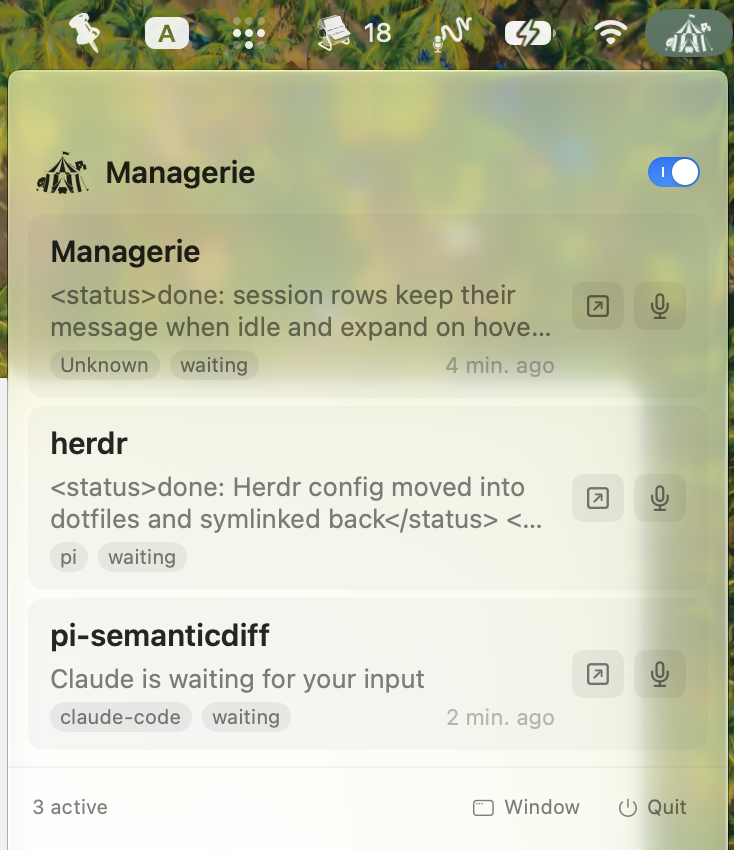
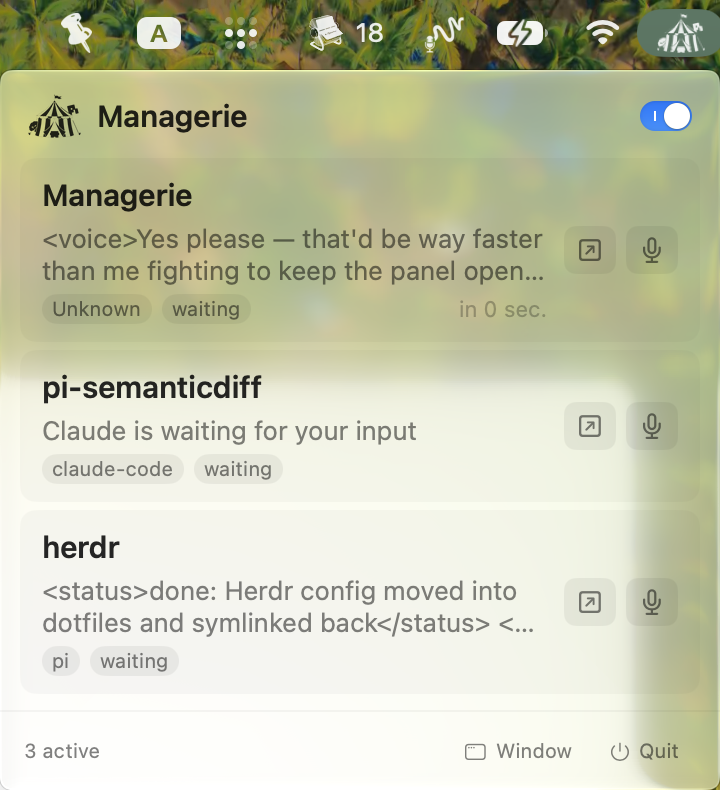
Website: full dropdown shot, no em dashes, drop the chime copy
The menubar dropdown asset is cropped to the panel's exact columns with its
bottom edge intact, so the page frame's corner radius clips it into a curve
instead of a hard cut. Every em dash on the page is gone, along with the
chime-picker line.

diff --git a/website/index.html b/website/index.html
@@ -5,10 +5,10 @@
 <meta name="viewport" content="width=device-width, initial-scale=1">
 <meta name="color-scheme" content="light only">
 <meta name="darkreader-lock">
-<title>Managerie — a menagerie of coding agents in your menubar</title>
+<title>Managerie: a menagerie of coding agents in your menubar</title>
 <meta name="description" content="Managerie watches your pi, claude-code, and codex sessions. It chimes when an agent needs you, jumps you to the right terminal, and lets you reply by text or voice.">
 <meta property="og:title" content="Managerie">
-<meta property="og:description" content="A menagerie of coding agents in your menubar — notifications, live status, and replies for pi, claude-code, and codex.">
+<meta property="og:description" content="A menagerie of coding agents in your menubar. Notifications, live status, and replies for pi, claude-code, and codex.">
 <meta property="og:image" content="https://managerie.exe.xyz/assets/icon.png">
 <link rel="icon" type="image/png" href="/assets/icon.png">
 <link rel="preconnect" href="https://fonts.googleapis.com">
@@ -217,7 +217,7 @@
 </header>
 
 <section class="hero wrap">
-  <span class="icon-frame"><img class="icon" src="/assets/icon.png" alt="Managerie app icon — a circus tent"></span>
+  <span class="icon-frame"><img class="icon" src="/assets/icon.png" alt="Managerie app icon, a circus tent"></span>
   <h1>Manage a <span class="rust">menagerie</span> of coding&nbsp;agents.</h1>
   <p class="sub">If you are running a handful of agents in terminal, this is for you.
   Managerie watches over all of them: it chimes when one finishes and needs you,
@@ -240,13 +240,13 @@
 <section class="shot-section wrap">
   <div class="shot-pair">
     <div class="shot-frame shot-window">
-      <img src="/assets/window.png?v=4" alt="Managerie main window — sidebar navigation with a list of live agent sessions, each with jump and voice-reply buttons">
+      <img src="/assets/window.png?v=5" alt="Managerie main window with a list of live agent sessions, each with jump and voice-reply buttons">
     </div>
     <div class="shot-frame shot-drop">
-      <img src="/assets/dropdown.png?v=4" alt="Managerie menubar dropdown — three agent sessions with their latest message, jump and mic buttons">
+      <img src="/assets/dropdown.png?v=5" alt="Managerie menubar dropdown showing three agent sessions with their latest message, jump and mic buttons">
     </div>
   </div>
-  <p class="shot-caption">Every live session, one window — or a glance from the menubar. Jump to its terminal, or hold the mic and dictate a reply.</p>
+  <p class="shot-caption">Every live session in one window, or a glance from the menubar. Jump to its terminal, or hold the mic and dictate a reply.</p>
 </section>
 
 <section class="section alt" id="how">
@@ -256,17 +256,17 @@
       <div class="card">
         <span class="emoji">🔔</span>
         <h3>Chimes only when it matters</h3>
-        <p>The ding means <em>a session finished and is waiting for you</em>. Mid-turn chatter, tool runs, and status flips stay silent. Pick your chime — Pop, Glass, Hero, or fourteen others.</p>
+        <p>The ding means <em>a session finished and is waiting for you</em>. Mid-turn chatter, tool runs, and status flips stay silent.</p>
       </div>
       <div class="card">
         <span class="emoji">↗</span>
         <h3>Jump to the exact terminal</h3>
-        <p>Click a notification or a session row and Managerie focuses the right window, tab, and tmux pane — Ghostty, iTerm2, tmux, zellij, it finds the one.</p>
+        <p>Click a notification or a session row and Managerie focuses the right window, tab, and tmux pane. Ghostty, iTerm2, tmux, zellij: it finds the one.</p>
       </div>
       <div class="card">
         <span class="emoji">🎙</span>
         <h3>Reply from anywhere</h3>
-        <p>Type a reply into any session from the dropdown, or hold the mic and speak — Apple's on-device recognizer transcribes it and injects it into the agent's terminal. No API keys, nothing leaves your Mac.</p>
+        <p>Type a reply into any session from the dropdown, or hold the mic and speak. Apple's on-device recognizer transcribes it and injects it into the agent's terminal. No API keys, nothing leaves your Mac.</p>
       </div>
     </div>
   </div>
@@ -280,7 +280,7 @@
         <div class="step-num"></div>
         <div>
           <h3>Install with Homebrew</h3>
-          <p><code>brew install --cask swairshah/tap/managerie</code> — signed &amp; notarized. Launch it and allow notifications when asked.</p>
+          <p><code>brew install --cask swairshah/tap/managerie</code>, signed &amp; notarized. Launch it and allow notifications when asked.</p>
         </div>
       </div>
       <div class="step">
@@ -288,14 +288,14 @@
         <div>
           <h3>Connect your agents</h3>
           <p>Open the window → <strong>Integrations</strong> → one click per agent.
-          It installs the pi extension, claude-code hooks, and codex notify for you — and can remove them just as cleanly.</p>
+          It installs the pi extension, claude-code hooks, and codex notify for you, and can remove them just as cleanly.</p>
         </div>
       </div>
       <div class="step">
         <div class="step-num"></div>
         <div>
           <h3>Restart your agent sessions</h3>
-          <p>New sessions check in automatically. That's it — go start something long-running and wander off.</p>
+          <p>New sessions check in automatically. That's it: go start something long-running and wander off.</p>
         </div>
       </div>
     </div>
@@ -308,10 +308,10 @@
     <h2>What it feels like</h2>
     <ul>
       <li>An agent finishes → <strong>chime + notification</strong>. Click it to land in that terminal.</li>
-      <li>The menubar dropdown shows every session with its <strong>last message</strong> — click a card to expand, type a reply, or hold the mic and dictate.</li>
-      <li>Session order is <strong>stable</strong> — rows never shuffle while agents work.</li>
+      <li>The menubar dropdown shows every session with its <strong>last message</strong>. Click a card to expand, type a reply, or hold the mic and dictate.</li>
+      <li>Session order is <strong>stable</strong>: rows never shuffle while agents work.</li>
       <li>Pipe anything into the notification stream from scripts: <code>echo "backup done" | mnote</code></li>
-      <li>Dictation runs <strong>on-device</strong> — no API keys, no audio leaves your Mac.</li>
+      <li>Dictation runs <strong>on-device</strong>: no API keys, no audio leaves your Mac.</li>
     </ul>
   </div>
 </section>

diff --git a/Sources/Managerie/ManagerieApp.swift b/Sources/Managerie/ManagerieApp.swift
@@ -715,6 +715,8 @@ struct SessionsTabView: View {
     @ObservedObject var monitor: VoiceMonitor
     @StateObject private var audioRecorder = AudioRecorder()
     @State private var recordingSessionId: String? = nil
+    /// Which row's reply field owns the keyboard (session id).
+    @FocusState private var focusedRow: String?
 
     var body: some View {
         VStack(spacing: 0) {
@@ -791,7 +793,8 @@ struct SessionsTabView: View {
                                         monitor.reportVoiceInputStatus("No audio recorded — check microphone permission")
                                     }
                                     recordingSessionId = nil
-                                }
+                                },
+                                focusedRow: $focusedRow
                             )
                         }
                     }
@@ -865,7 +868,12 @@ struct SessionRowView: View {
     @State private var isHovered = false
     @State private var isExpanded = false
     @State private var draft = ""
-    @FocusState private var inputFocused: Bool
+    /// Focus lives in the parent, keyed by session id, so moving the mouse
+    /// from one row to the next hands the keyboard over cleanly. With a
+    /// per-row @FocusState the row being left would resign first responder
+    /// *after* the new row claimed it, and focus fell on the floor.
+    var focusedRow: FocusState<String?>.Binding
+    private var inputFocused: Bool { focusedRow.wrappedValue == session.id }
 
     private static let relativeFormatter: RelativeDateTimeFormatter = {
         let formatter = RelativeDateTimeFormatter()
@@ -1025,7 +1033,7 @@ struct SessionRowView: View {
                     TextField("Message \(session.sourceApp)…", text: $draft)
                         .textFieldStyle(.plain)
                         .font(.system(size: 12.5))
-                        .focused($inputFocused)
+                        .focused(focusedRow, equals: session.id)
                         .onSubmit(sendDraft)
                         .padding(.horizontal, 9)
                         .padding(.vertical, 6)
@@ -1051,7 +1059,7 @@ struct SessionRowView: View {
                 }
                 .padding(.horizontal, 13)
                 .padding(.bottom, 11)
-                .onAppear { inputFocused = true }
+                .onAppear { focusedRow.wrappedValue = session.id }
             }
         }
         .background(
@@ -1064,10 +1072,16 @@ struct SessionRowView: View {
                 isHovered = hovering
             }
             if hovering {
-                // Hover hands the keyboard to this row's field.
-                inputFocused = true
-            } else if draft.trimmingCharacters(in: .whitespaces).isEmpty, !isExpanded {
-                inputFocused = false
+                // Hover hands the keyboard to this row's field. Deferred so the
+                // field exists (it's revealed by this same hover) before focus
+                // lands on it.
+                DispatchQueue.main.async { focusedRow.wrappedValue = session.id }
+            } else if inputFocused, draft.trimmingCharacters(in: .whitespaces).isEmpty, !isExpanded {
+                // Only give up focus if it's still ours — another row may have
+                // already taken it as the pointer moved across.
+                DispatchQueue.main.async {
+                    if focusedRow.wrappedValue == session.id { focusedRow.wrappedValue = nil }
+                }
             }
         }
     }
